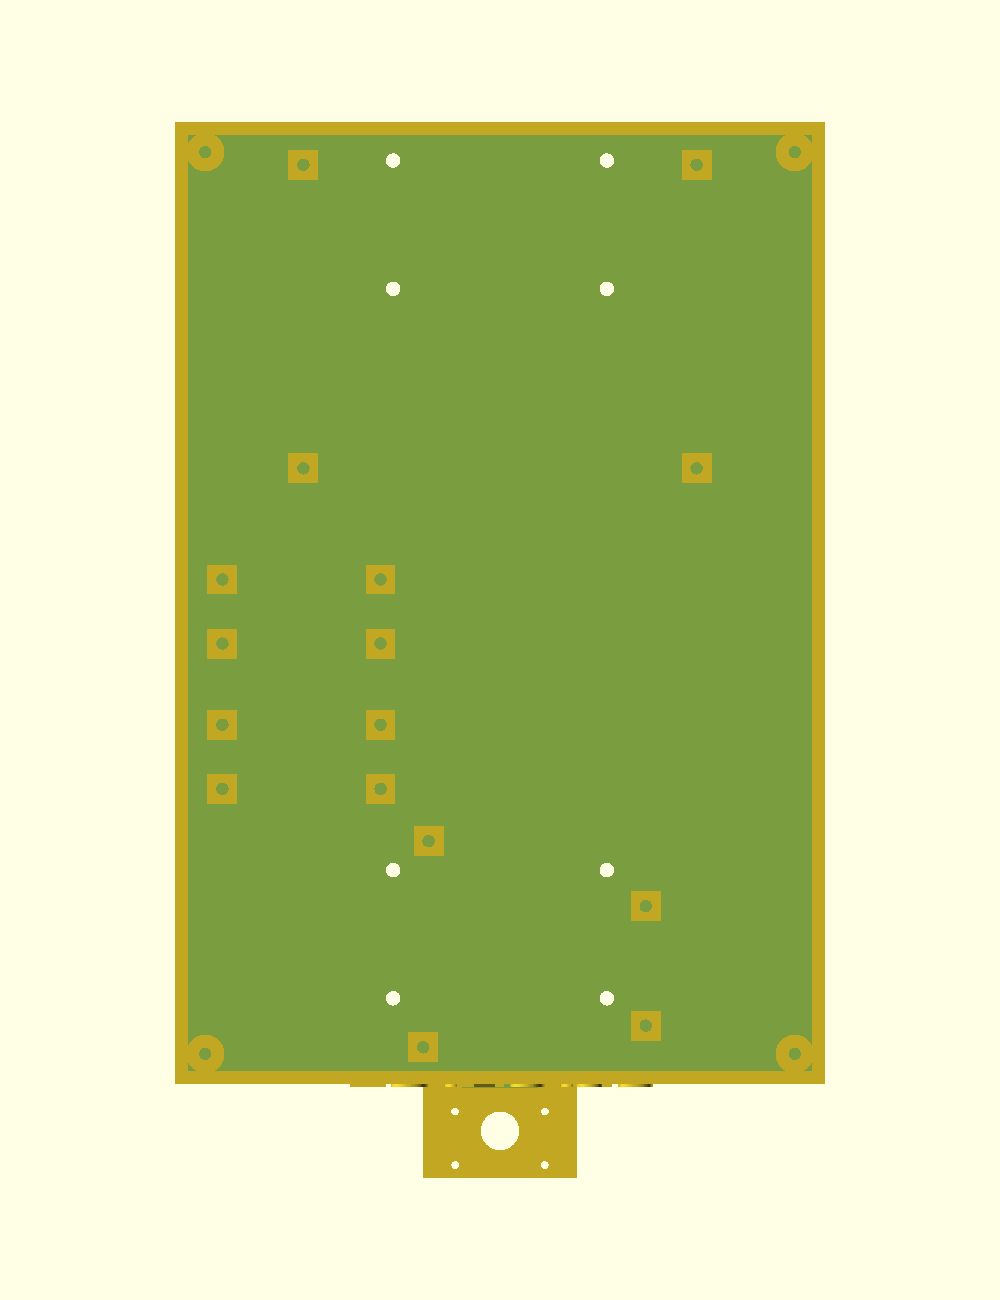
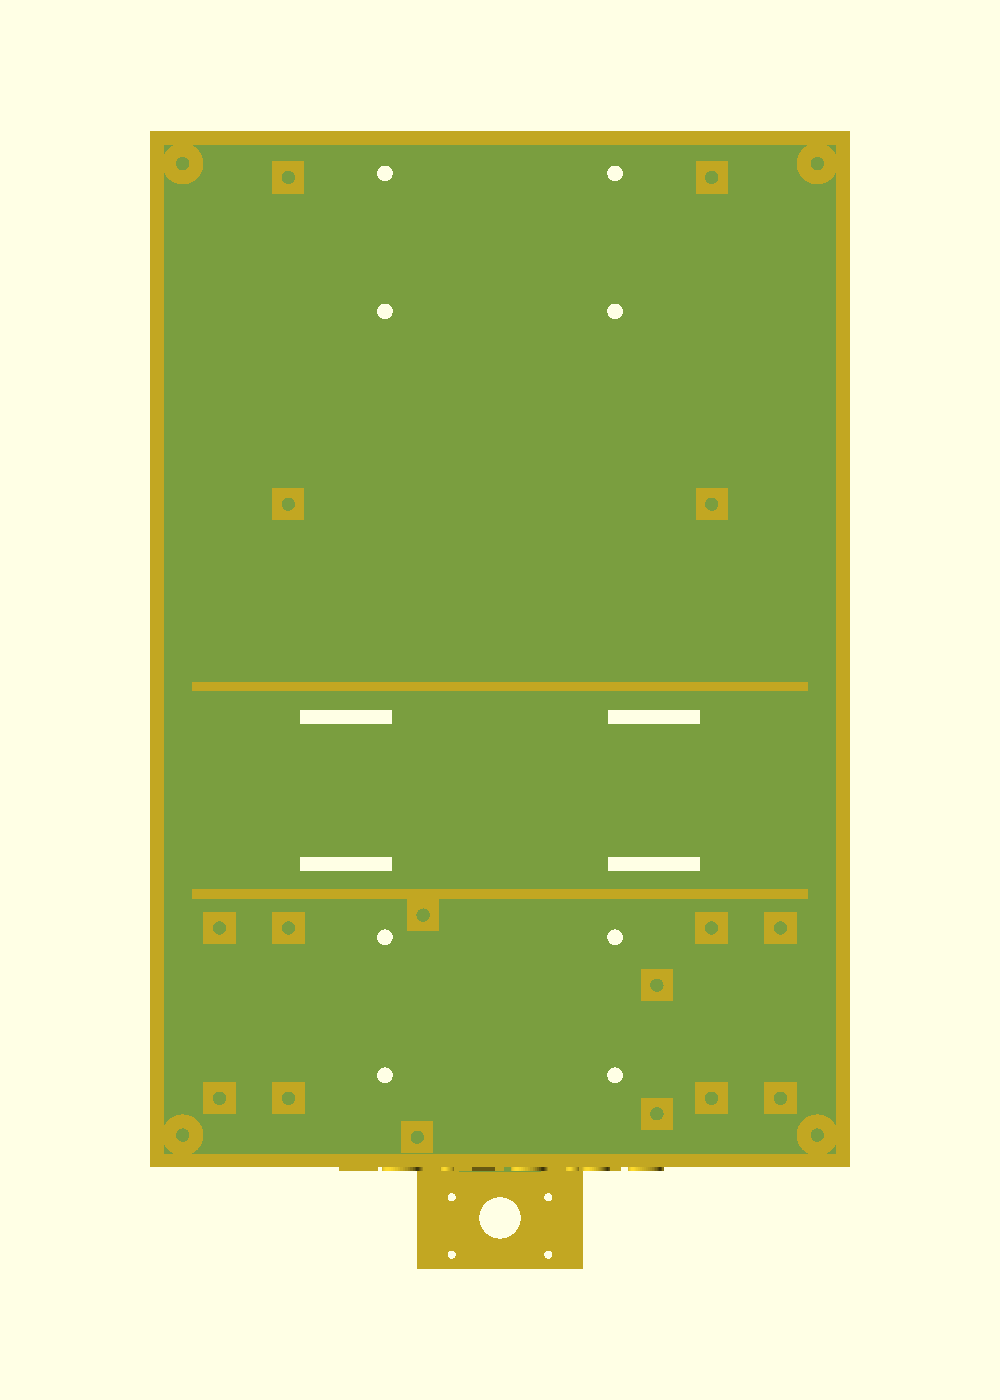
케이스: 배터리(BOTTOM 터널 43x57x134) 트레이 수납 · SO-101 두 구멍 67.5 · 회전 서보 STS3215 C018 선정
- 배치(앞→뒤): 아두이노+벅부스트2 → 배터리(세움) → 서보/회전중심 → 젯슨
- 전압계는 젯슨 옆 오른쪽 벽, 뚜껑 환기는 스토퍼 홈 바깥부터
- 상판 도면은 공개본 없음(제조사 GitHub엔 사진 설명서뿐) — 문서에 기록
- ros_selfcheck: 배터리·SO-101 구멍 검사 추가

diff --git a/ros2/tools/ros_selfcheck.py b/ros2/tools/ros_selfcheck.py
@@ -456,9 +456,10 @@ def test_geometry_matches() -> None:
           and re.search(r"mount_pitch\s*=\s*mount_dy\s*\+\s*mount_gap\s*;", scad_src) is not None
           and abs((pitch + mdy) - 195.5) <= 0.5,
           f"mount_dy={mdy}, mount_gap={mgap}, pitch={pitch}, outer={pitch + mdy}")
-    check("tomato_case.scad 회전 중심이 두 체결패턴의 가운데(지금 팔 받침 자리)다",
-          re.search(r"rot_center\s*=\s*\[\s*case_w\s*/\s*2\s*,\s*\(\s*mount_front_c\s*\+\s*mount_rear_c\s*\)\s*/\s*2\s*\]",
-                    scad_src) is not None)
+    check("tomato_case.scad 배터리 자리가 BOTTOM 관통 터널(43×57×134, 사용자 확인)과 같다",
+          re.search(r"^\s*batt\s*=\s*\[\s*134\s*,\s*43\s*,\s*57\s*\]\s*;", scad_src, re.M) is not None)
+    check("tomato_case.scad SO-101 받침 구멍 간격이 BOTTOM 가운데 두 나사 67.5mm다",
+          re.search(r"so101_holes\s*=\s*\[\[\s*-67\.5\s*/\s*2\s*,", scad_src) is not None)
     check("tomato_case.scad에 차체 길이 195.5를 박아 두지 않았다 (195.5는 나사 간 거리)",
           re.search(r"(chassis_d|case_d)\s*=\s*195\.5", scad_src) is None)
 

diff --git a/hardware_design/case/README.md b/hardware_design/case/README.md
@@ -8,7 +8,7 @@
 ## 구조
 | 부품 | 들어가는 것 |
 |---|---|
-| `tray` | 151.9 × 225 × 70. **앞=아두이노**(+바닥 카메라 선반), 가운데 왼쪽=벅부스트 2개, 오른쪽 벽=전압·전류계 창, **뒤=젯슨**(단자는 뒷벽). 바닥이 차체 상판의 **M3 50×30 패턴 두 벌(중심 간격 166)**에 그대로 박힌다. 전면 "ForNerds" 양각 |
+| `tray` | 151.9 × 225 × 70. **앞=아두이노**(+바닥 카메라 선반, 양옆 벅부스트 2개), 그 뒤 **배터리(세움)**, 가운데 뚜껑 밑 서보, **뒤=젯슨**(오른쪽 벽에 전압·전류계 창)(단자는 뒷벽). 바닥이 차체 상판의 **M3 50×30 패턴 두 벌(중심 간격 166)**에 그대로 박힌다. 전면 "ForNerds" 양각 |
 | `lid` | 회전 베어링 하부 링 볼트, 밑에 STS3215 서보 걸이, 180° 배선 슬롯, 스토퍼 홈 |
 | `platform` | SO-101 베이스 구멍, Orbbec 1/4" 나사 자리, 서보 혼, 베어링 상부 링, 스토퍼 핀 |
 
@@ -19,7 +19,25 @@
   회전판의 구멍이 함께 돈다. 슬롯은 서보 몸체 반대편(−X).
 - **180°는 스토퍼 핀+홈으로 기계적으로 막는다** — 소프트 리밋만 믿으면 오지령 한 번에 배선이 끊긴다.
 
-- **배터리는 트레이에 없다** — 4S3P 팩이 들어갈 자리가 안 남는다. 지금처럼 차체 아래(BOTTOM)에 둔다(크기 실측 후 재검토).
+- **배터리는 세워서 아두이노 바로 뒤에 가로로 눕힌다** — 크기 = BOTTOM 관통 터널 43×57×134(사용자 확인).
+  눕히면(높이 43) 뚜껑 밑 서보 걸이와 부딪혀서 세운다. 앞뒤 턱 + 바닥 밴드 슬롯 4개로 고정.
+  순서(앞→뒤): 아두이노·벅부스트 2 → 배터리 → 서보(회전 중심) → 젯슨. 배선 슬롯은 배터리와 젯슨 사이 왼쪽 빈칸에 떨어진다.
+
+## 회전 서보 = STS3215 C018 (12V · 1/345 · 30kg·cm) — 팔과 같은 것
+| 따져 본 것 | 값 | 판단 |
+|---|---|---|
+| 무게 | 베어링이 받는다 | 서보는 돌리기만 |
+| 가속 토크 | 팔 ~0.9kg·무게중심 15cm → 관성 ~0.025kg·m², 0.2초에 가속하면 ~6kg·cm | 30kg·cm로 5배 여유 |
+| 되받는 토크 | 팔의 어깨(pan) 서보가 휘두를 때 반작용이 회전판에 온다 — 최대 그 서보의 스톨 30kg·cm | **같은 서보라야 비긴다** (더 약하면 판이 밀린다) |
+| 백래시 | 실측 ~0.87° (스펙 ≤0.5°) → 팔 끝 30cm에서 **~4.6mm** | 손-눈 15mm 예산 안. 출력축 자기 엔코더라 **읽은 각은 진짜 각** — TF는 읽은 값으로 |
+| 분해능 | 0.088°/틱 → 30cm에서 0.46mm | 충분 |
+| 배선·전원 | 팔 버스에 **ID 7**로 한 줄 더, 팔 12V 레일 공유 | 새 드라이버·새 전원 없음. 12V 벅부스트 용량을 7개 기준(스톨 2.7A)으로 확인 |
+
+- 감속기(프린트 기어)는 넣지 않는다 — 기어 유격이 서보 백래시에 더해진다. 판이 밀리는 게 실측되면 그때 3:1.
+- ⚠ **0/4095 경계를 180° 구간 밖에 두라** — wrist_roll에서 엔코더 경계가 가동구간에 걸려 팔이 튀었다
+  (메모리 wrist-roll-wrap-fix). 조립 전에 중앙(2048)을 회전판 정면에 맞춰 영점을 쓴다.
+- 출처: [RobotShop STS3215 12V 30kg](https://www.robotshop.com/products/feetech-12v-30kgcm-magnetic-encoding-servo-sts3215) ·
+  [Robo9 백래시·반복정밀도 실측](https://robonine.com/testing-of-feetech-sts3215-servomotor-backlash-repeatability-and-torque/)
 - **바닥 카메라를 앞으로 옮기면**: 젯슨 CSI 단자(뒤)까지 약 20cm라 기본 15cm 리본이 안 닿는다(30cm 필요).
   또 라인 주행의 앞뒤·부호가 지금 카메라 위치에 묶여 있으니 옮긴 뒤 `/settings`에서 축 부호·영점을 다시 잡는다.
 

diff --git a/docs/design/3D-parts-mapping.md b/docs/design/3D-parts-mapping.md
@@ -65,12 +65,21 @@
   - 각 조 둘레 얕은 포켓(깊이 1.5) 44.5×17 / 38.8×17
 - 앞벽 Ø6.0 구멍 2개, X 간격 105 (−121.6 / −16.6), 높이 16
 
+## 이어서 정한 것 (2026-09-26)
+- **배터리 4S3P = BOTTOM 관통 터널에 끝까지 들어가는 크기.** 터널 = 양 끝벽 창 **43(높이, Y 3→46) × 57(폭, Z 58→115)**,
+  길이 134 전 구간 막힘 없음(STL 단면 확인). 18650 2×3×2 = 37×55.5×130과 맞는다 → 케이스 배터리 자리 43×57×134.
+- **SO-101 받침 체결 = BOTTOM 가운데 두 나사 (−104, 32)/(−36.5, 32) → 간격 67.5**, 좌우로 나란(사용자 지정).
+  나머지 2개는 추후 실측.
+- **차체 상판 도면은 공개된 것이 없다.** 제조사 GitHub([MoebiusTech/MecanumRobot-Arduino-Uno](https://github.com/MoebiusTech/MecanumRobot-Arduino-Uno))엔
+  사진뿐인 설치 설명서 PDF만 있고, 쿠팡 페이지의 조립설명서 링크(naver.me/xFrOQ0yY → 네이버 MYBOX 공유폴더)는
+  자바스크립트 페이지라 밖에서 목록을 못 읽는다 — 브라우저로 열어 파일을 받아 저장소에 두면 읽는다.
+  (케이스는 체결 패턴 기준이라 상판 도면 없이도 된다.)
+
 ## 남은 실측
-- [x] 상판 가로 151.9 · 패턴 간격 166 · 방향(30 변 = 길이) — 케이스 반영
-- [ ] 차체 상판 길이 (없어도 케이스는 된다)
-- [ ] TOPLeft 앞 끝 ↔ 앞 나사 줄 (현 판이 7 / 32.75 중 어느 쪽인지)
+- [x] 상판 가로 151.9 · 패턴 간격 166 · 방향(30 변 = 길이) · 배터리 43×57×134 · SO-101 두 구멍 67.5 — 케이스 반영
+- [ ] SO-101 받침 나머지 구멍 2개 + 볼트 줄 ↔ 팔 회전축 앞뒤 거리(`so101_offset`)
 - [ ] 젯슨 캐리어 보드 고정 구멍 · 벅부스트 모듈 크기·구멍 · 전압전류계 패널 규격
-- [ ] 배터리 4S3P 팩 크기와 둘 자리
-- [ ] SO-101 받침 바닥 구멍 · 레이지수잔 베어링 규격 · 회전 서보 축 위치·혼
+- [ ] 레이지수잔 베어링 규격(구매 후) · 회전 서보 몸체 끝→출력축 거리·혼 (팔에 달린 같은 서보로 잰다)
+- [ ] 차체 상판 길이 · TOPLeft 앞 끝 ↔ 앞 나사 줄 (없어도 케이스는 된다)
 
 → [`hardware_design/case/tomato_case.scad`](../../hardware_design/case/tomato_case.scad)의 `[실측]` 줄을 고친다.
